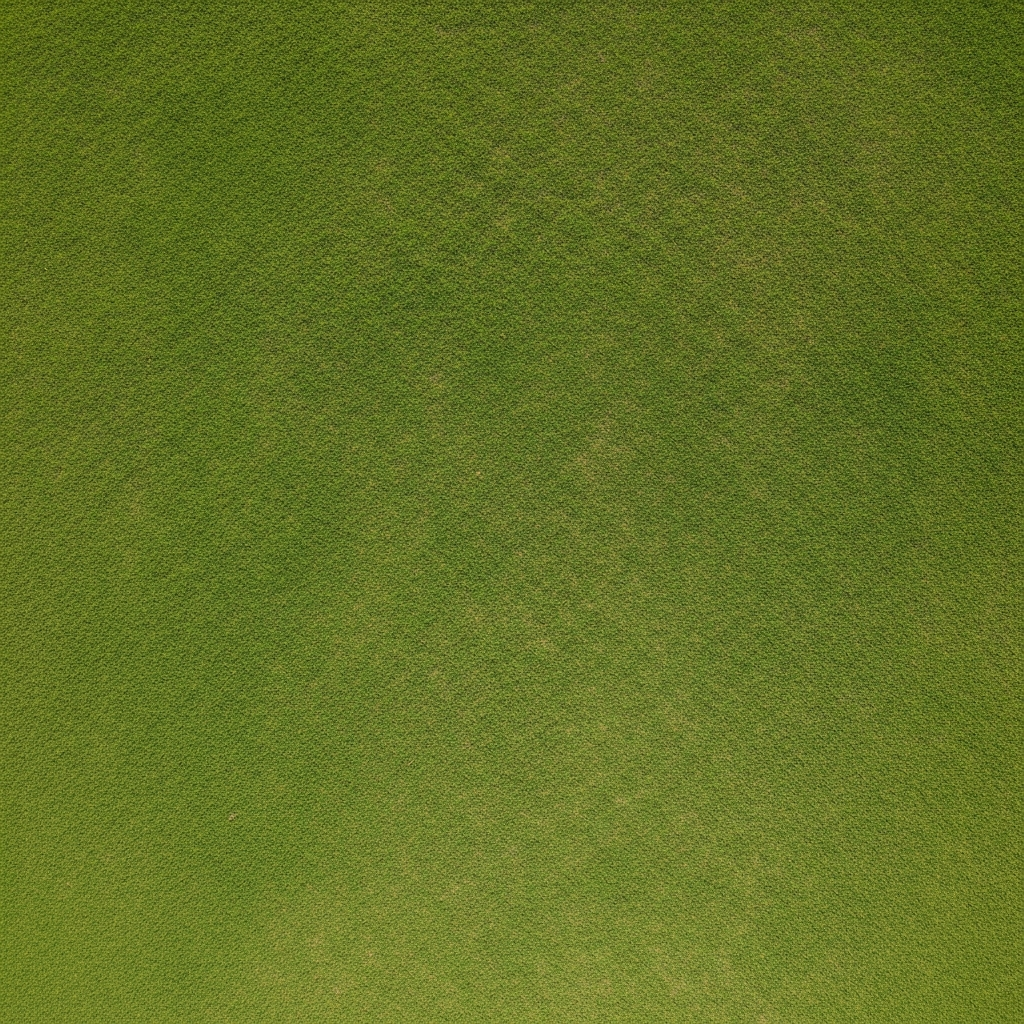
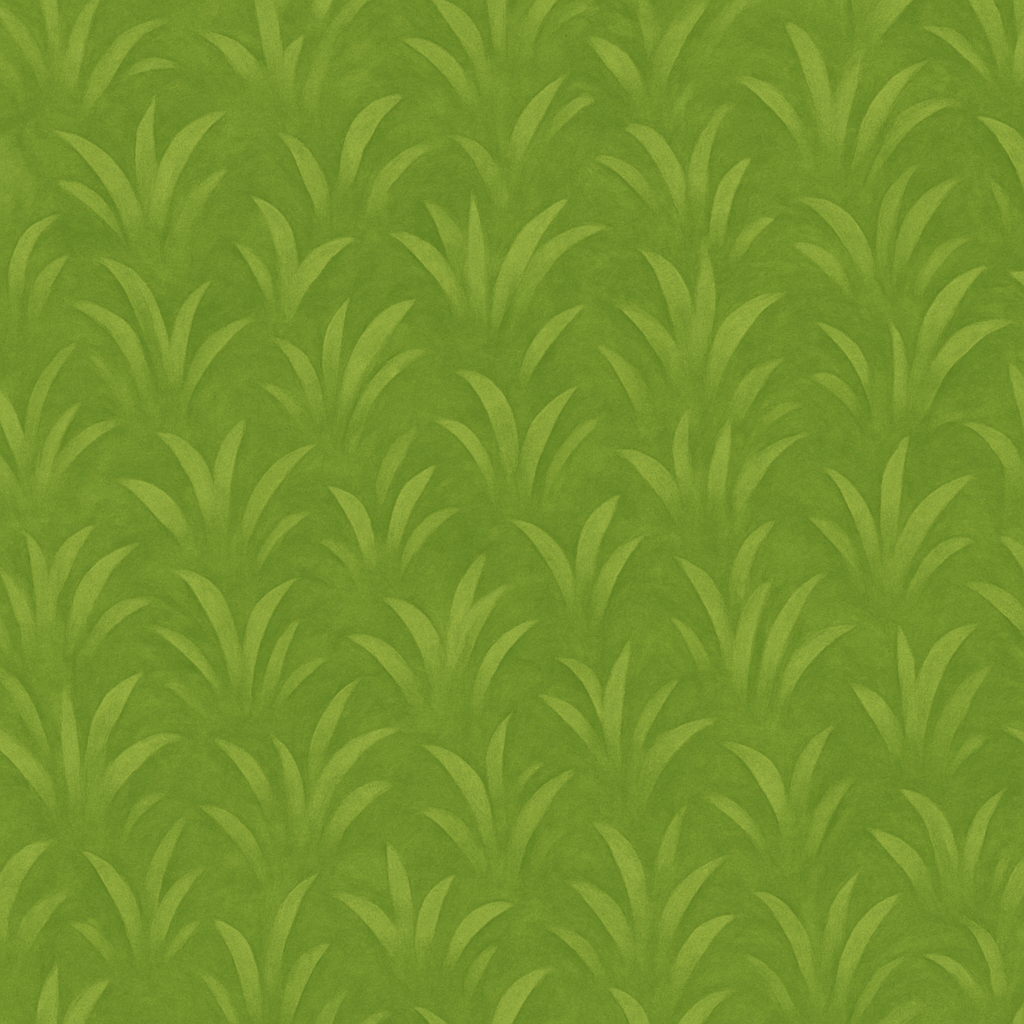
Iteration 0: proof of concept - ground_grass.png in new illustrated style
- Flat lighting, no shadows, hand-painted watercolor look
- Warm muted tones, seamless tileable
- Generated via OpenAI gpt-image-1

diff --git a/tools/generate_new_sprites.py b/tools/generate_new_sprites.py
@@ -1,0 +1,219 @@
+#!/usr/bin/env python3
+"""Generate all new art assets for the Startup Simulator using OpenAI gpt-image-1."""
+
+import argparse
+import base64
+import json
+import os
+import sys
+import time
+import urllib.error
+import urllib.request
+from pathlib import Path
+
+OPENAI_API_KEY = os.environ.get("OPENAI_API_KEY", "")
+GEMINI_API_KEY = os.environ.get("GEMINI_API_KEY", "")
+
+COMMON_STYLE = (
+    "flat lighting, no shadows, no cast shadows, evenly lit from above, "
+    "2D game asset, warm illustrated style, Bangalore Indian neighborhood"
+)
+
+def generate_openai(prompt: str, output_path: str, size="1024x1024", background="auto", quality="high"):
+    """Generate image via OpenAI gpt-image-1."""
+    Path(output_path).parent.mkdir(parents=True, exist_ok=True)
+    
+    body = {
+        "model": "gpt-image-1",
+        "prompt": prompt,
+        "n": 1,
+        "size": size,
+        "quality": quality,
+        "background": background,
+        "output_format": "png",
+    }
+    
+    data = json.dumps(body).encode()
+    req = urllib.request.Request(
+        "https://api.openai.com/v1/images/generations",
+        data=data,
+        headers={
+            "Authorization": f"Bearer {OPENAI_API_KEY}",
+            "Content-Type": "application/json",
+        },
+    )
+    
+    for attempt in range(3):
+        try:
+            with urllib.request.urlopen(req, timeout=120) as resp:
+                result = json.loads(resp.read())
+            b64 = result["data"][0]["b64_json"]
+            img_bytes = base64.b64decode(b64)
+            with open(output_path, "wb") as f:
+                f.write(img_bytes)
+            print(f"  ✅ Saved: {output_path} ({len(img_bytes)} bytes)")
+            return True
+        except urllib.error.HTTPError as e:
+            body = e.read().decode() if hasattr(e, 'read') else str(e)
+            print(f"  ⚠ Attempt {attempt+1} failed: {e.code} {body[:200]}")
+            if e.code == 429:
+                time.sleep(15)
+            else:
+                time.sleep(3)
+        except Exception as e:
+            print(f"  ⚠ Attempt {attempt+1} failed: {e}")
+            time.sleep(3)
+    
+    print(f"  ❌ Failed after 3 attempts: {output_path}")
+    return False
+
+
+def generate_gemini(prompt: str, output_path: str):
+    """Generate image via Gemini."""
+    Path(output_path).parent.mkdir(parents=True, exist_ok=True)
+    
+    url = f"https://generativelanguage.googleapis.com/v1beta/models/gemini-2.0-flash-exp:generateContent?key={GEMINI_API_KEY}"
+    body = {
+        "contents": [{"parts": [{"text": prompt}]}],
+        "generationConfig": {"responseModalities": ["TEXT", "IMAGE"]}
+    }
+    
+    data = json.dumps(body).encode()
+    req = urllib.request.Request(url, data=data, headers={"Content-Type": "application/json"})
+    
+    for attempt in range(3):
+        try:
+            with urllib.request.urlopen(req, timeout=120) as resp:
+                result = json.loads(resp.read())
+            
+            for part in result.get("candidates", [{}])[0].get("content", {}).get("parts", []):
+                if "inlineData" in part:
+                    img_bytes = base64.b64decode(part["inlineData"]["data"])
+                    with open(output_path, "wb") as f:
+                        f.write(img_bytes)
+                    print(f"  ✅ Saved: {output_path} ({len(img_bytes)} bytes)")
+                    return True
+            print(f"  ⚠ No image in response")
+            time.sleep(3)
+        except Exception as e:
+            print(f"  ⚠ Attempt {attempt+1} failed: {e}")
+            time.sleep(5)
+    
+    print(f"  ❌ Failed after 3 attempts: {output_path}")
+    return False
+
+
+# ============================================================================
+# ASSET DEFINITIONS
+# ============================================================================
+
+GROUND_TILES = {
+    "ground_grass.png": "lush green grass texture, color #5A8C3C, hand-painted watercolor look, seamless tileable pattern, warm muted tones, top-down view",
+    "ground.png": "warm grey asphalt road texture, color #8C8478, hand-painted watercolor look, seamless tileable pattern, warm muted tones, top-down view",
+    "ground_dirt.png": "laterite red-brown dirt path texture, color #C4A882, hand-painted watercolor look, seamless tileable pattern, warm muted tones, top-down view",
+    "ground_sand.png": "sandy ground texture, color #D4B896, hand-painted watercolor look, seamless tileable pattern, warm muted tones, top-down view",
+    "park_ground.png": "manicured park lawn texture, lush green well-maintained grass, hand-painted watercolor look, seamless tileable pattern, warm muted tones, top-down view",
+}
+
+PROPS = {
+    "tree.png": "tropical rain tree seen from directly above, top-down view, lush green canopy, round shape, on transparent background, illustrated style, warm palette, no shadow",
+    "tree_pine.png": "ashoka tree seen from directly above, top-down view, narrow columnar green canopy, on transparent background, illustrated style, warm palette, no shadow",
+    "bush.png": "bougainvillea bush seen from directly above, top-down view, bright pink flowers with green leaves, on transparent background, illustrated style, warm palette, no shadow",
+    "flowers.png": "cluster of marigolds and jasmine flowers seen from directly above, top-down view, orange and white flowers, on transparent background, illustrated style, warm palette, no shadow",
+    "bench.png": "green park bench seen from directly above, top-down view, wooden slats with green metal frame, on transparent background, illustrated style, warm palette, no shadow",
+    "lamp_post.png": "ornate street lamp seen from directly above, top-down view, black metal pole with warm glow bulb, on transparent background, illustrated style, warm palette, no shadow",
+    "fence.png": "compound wall with metal railing seen from directly above, top-down view, whitewashed wall with iron railings, on transparent background, illustrated style, warm palette, no shadow",
+    "fountain.png": "stone park fountain seen from directly above, top-down view, circular stone basin with water, on transparent background, illustrated style, warm palette, no shadow",
+    "mailbox.png": "red Indian post box seen from directly above, top-down view, cylindrical red pillar box, on transparent background, illustrated style, warm palette, no shadow",
+    "trash_can.png": "green dustbin seen from directly above, top-down view, cylindrical green bin with lid, on transparent background, illustrated style, warm palette, no shadow",
+    "sign_shop.png": "colorful shop signboard seen from directly above, top-down view, rectangular sign with bright teal and yellow colors, on transparent background, illustrated style, warm palette, no shadow",
+}
+
+CHARACTERS = {
+    "player.png": "young Indian male entrepreneur, casual clothes, confident expression, stylized illustrated game character, 3/4 front-facing view, warm painterly style, soft features, proportional body, Ghibli-adjacent style, NOT photorealistic, transparent background",
+    "npc_alex.png": "Indian male freelancer wearing blue hoodie and glasses, stylized illustrated game character, 3/4 front-facing view, warm painterly style, soft features, proportional body, Ghibli-adjacent style, NOT photorealistic, transparent background",
+    "npc_jordan.png": "Indian male student wearing green kurta, curious expression, stylized illustrated game character, 3/4 front-facing view, warm painterly style, soft features, proportional body, Ghibli-adjacent style, NOT photorealistic, transparent background",
+    "npc_maya.png": "Indian female baker wearing red salwar kameez with flour-dusted apron, warm smile, stylized illustrated game character, 3/4 front-facing view, warm painterly style, soft features, proportional body, Ghibli-adjacent style, NOT photorealistic, transparent background",
+    "npc_sam.png": "Indian male barber wearing black vest, stylish hair, confident look, stylized illustrated game character, 3/4 front-facing view, warm painterly style, soft features, proportional body, Ghibli-adjacent style, NOT photorealistic, transparent background",
+    "npc_priya.png": "Indian female teacher wearing teal saree, warm expression, stylized illustrated game character, 3/4 front-facing view, warm painterly style, soft features, proportional body, Ghibli-adjacent style, NOT photorealistic, transparent background",
+}
+
+BUILDING_FACADES = {
+    "wall_brick/wall_brick_facade.png": "commercial Indiranagar shop front building facade, red and brown brick walls, wooden shutters, shop signage, illustrated architectural facade, front elevation view, warm earth tones, detailed but illustrated style",
+    "wall/wall_facade.png": "gray concrete building facade, simple commercial building, plain concrete walls, small windows, front elevation view, illustrated architectural facade, warm earth tones",
+    "wall_wood/wall_wood_facade.png": "ochre painted traditional shophouse facade, warm yellow-brown painted walls, wooden doors and windows, front elevation view, illustrated architectural facade, Indian neighborhood style",
+    "wall_office/wall_office_facade.png": "modern glass and concrete office building facade, startup office, blue-grey tinted windows, clean lines, front elevation view, illustrated architectural facade, warm earth tones",
+    "wall_bungalow/wall_bungalow_facade.png": "Bangalore bungalow facade, terracotta roof tiles visible, whitewashed walls with terracotta accents, verandah, front elevation view, illustrated architectural facade, warm earth tones",
+    "wall_school/wall_school_facade.png": "institutional school building facade, cream-yellow painted walls, large windows, front gate, front elevation view, illustrated architectural facade, warm earth tones",
+    "roof/roof_facade.png": "Mangalore clay tile roof pattern, red-brown terracotta roof tiles arranged in rows, top-down view of roof surface, illustrated style, warm earth tones, seamless tileable",
+}
+
+
+def run_iteration(iteration: int, base_dir: str):
+    base = Path(base_dir)
+    tiles_dir = base / "game" / "assets" / "tiles"
+    chars_dir = base / "game" / "assets" / "characters"
+    bldg_dir = base / "game" / "assets" / "buildings"
+    
+    if iteration == 0:
+        print("\n🎨 Iteration 0: Proof of concept — ground_grass.png")
+        prompt = f"{GROUND_TILES['ground_grass.png']}, {COMMON_STYLE}"
+        generate_openai(prompt, str(tiles_dir / "ground_grass.png"), background="opaque")
+    
+    elif iteration == 1:
+        print("\n🎨 Iteration 1: All 5 ground tiles")
+        for filename, desc in GROUND_TILES.items():
+            print(f"\n  Generating {filename}...")
+            prompt = f"{desc}, {COMMON_STYLE}"
+            generate_openai(prompt, str(tiles_dir / filename), background="opaque")
+            time.sleep(2)
+    
+    elif iteration == 2:
+        print("\n🎨 Iteration 2: WALL_BRICK facade")
+        desc = BUILDING_FACADES["wall_brick/wall_brick_facade.png"]
+        prompt = f"{desc}, {COMMON_STYLE}, highly detailed, at least 960x960 pixels"
+        generate_openai(prompt, str(bldg_dir / "wall_brick" / "wall_brick_facade.png"), background="opaque")
+    
+    elif iteration == 3:
+        print("\n🎨 Iteration 3: All 11 prop sprites")
+        for filename, desc in PROPS.items():
+            print(f"\n  Generating {filename}...")
+            prompt = f"{desc}, {COMMON_STYLE}"
+            generate_openai(prompt, str(tiles_dir / filename), background="transparent")
+            time.sleep(2)
+    
+    elif iteration == 4:
+        print("\n🎨 Iteration 4: All 6 character sprites")
+        for filename, desc in CHARACTERS.items():
+            print(f"\n  Generating {filename}...")
+            prompt = f"{desc}, {COMMON_STYLE}"
+            generate_openai(prompt, str(chars_dir / filename), background="transparent")
+            time.sleep(2)
+    
+    elif iteration == 5:
+        print("\n🎨 Iteration 5: Remaining building facades")
+        for rel_path, desc in BUILDING_FACADES.items():
+            if rel_path == "wall_brick/wall_brick_facade.png":
+                continue  # Already done in iteration 2
+            print(f"\n  Generating {rel_path}...")
+            prompt = f"{desc}, {COMMON_STYLE}, highly detailed"
+            generate_openai(prompt, str(bldg_dir / rel_path), background="opaque")
+            time.sleep(2)
+
+
+def main():
+    parser = argparse.ArgumentParser(description="Generate art assets for Startup Simulator")
+    parser.add_argument("--iteration", "-i", type=int, required=True, help="Iteration number (0-5)")
+    parser.add_argument("--base-dir", default=".", help="Base repo directory")
+    args = parser.parse_args()
+    
+    if not OPENAI_API_KEY:
+        print("ERROR: OPENAI_API_KEY not set")
+        sys.exit(1)
+    
+    run_iteration(args.iteration, args.base_dir)
+    print("\n✅ Done!")
+
+
+if __name__ == "__main__":
+    main()
